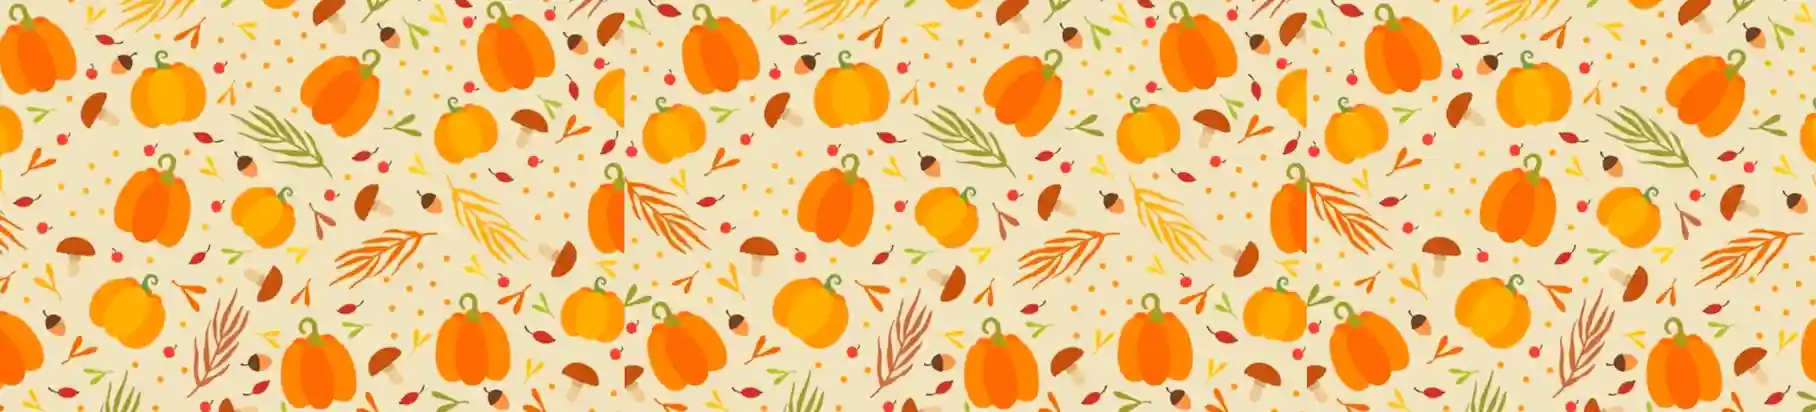
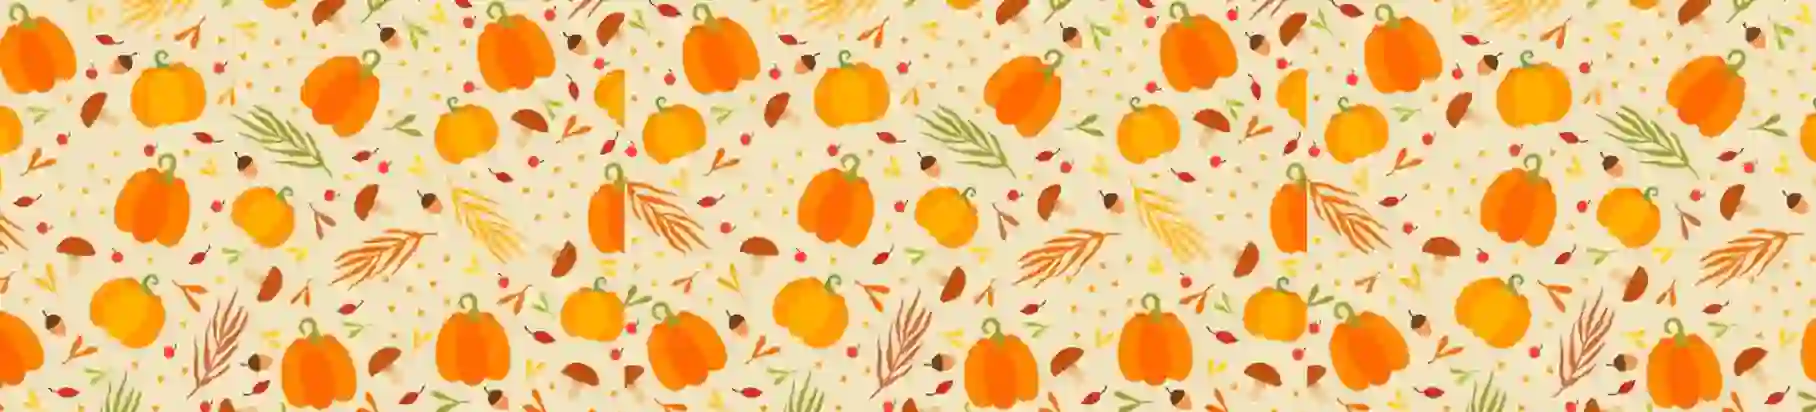
updated image compression

diff --git a/scripts/compress-images.js b/scripts/compress-images.js
@@ -3,9 +3,6 @@ const fs = require('fs');
 const path = require('path');
 
 const directory = 'public';
-const sizeThreshold = 100 * 1024; // 100KB
-const highQuality = 80;
-const lowQuality = 20;
 
 function compressImages(dir) {
   fs.readdir(dir, (err, files) => {
@@ -31,7 +28,11 @@ function compressImages(dir) {
           if (['.jpg', '.jpeg', '.png', '.gif'].includes(fileExt)) {
             const outputFilename = `${path.basename(file, fileExt)}.webp`;
             const outputPath = path.join(dir, outputFilename);
-            const quality = stat.size > sizeThreshold ? lowQuality : highQuality;
+            let quality;
+            if (stat.size > 3000 * 204) quality = 1;
+            else if (stat.size > 200 * 1024) quality = 10;
+            else if (stat.size > 100 * 1024) quality = 20;
+            else quality = 80;
 
             sharp(filePath)
               .webp({ quality })
